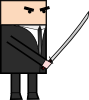
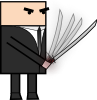
sorted out turning around issues somewhat

Changed region(s): [[0.0, 0.0, 1.0, 1.0], [0.1798, 0.72, 0.3371, 1.0], [0.0, 0.72, 0.1348, 1.0]]

diff --git a/player.js b/player.js
@@ -81,14 +81,13 @@ define(["lib/compose"], function(compose){
             // correct for animation and turning
             if ( was_facing != this.facing ){
                 if ( this.facing == "right" ) this.x += 30
-                if ( this.facing == "left") this.x -= 10
-            }
+                if ( this.facing == "left") this.x -= 30
+                }
 
             if ( this.facing == "left"){
                 this.x += this.width - this.image.width
                 this.width = this.image.width
             } else if ( this.facing == "right" ) {
-                this.x -= this.width - this.image.width
                 this.width = this.image.width
             }
 
